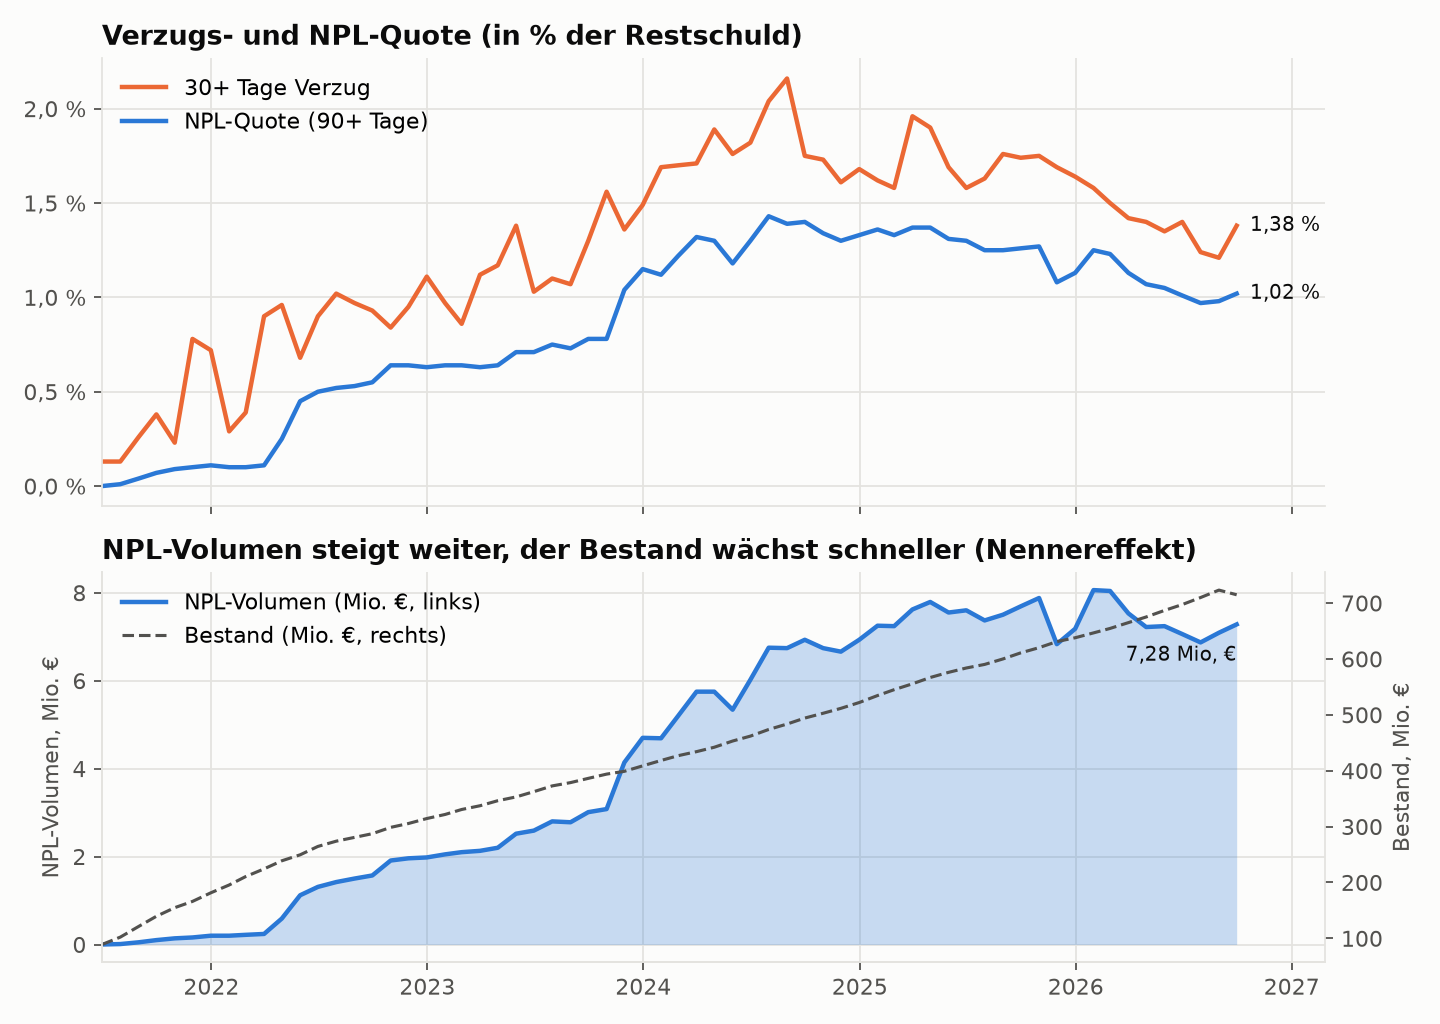
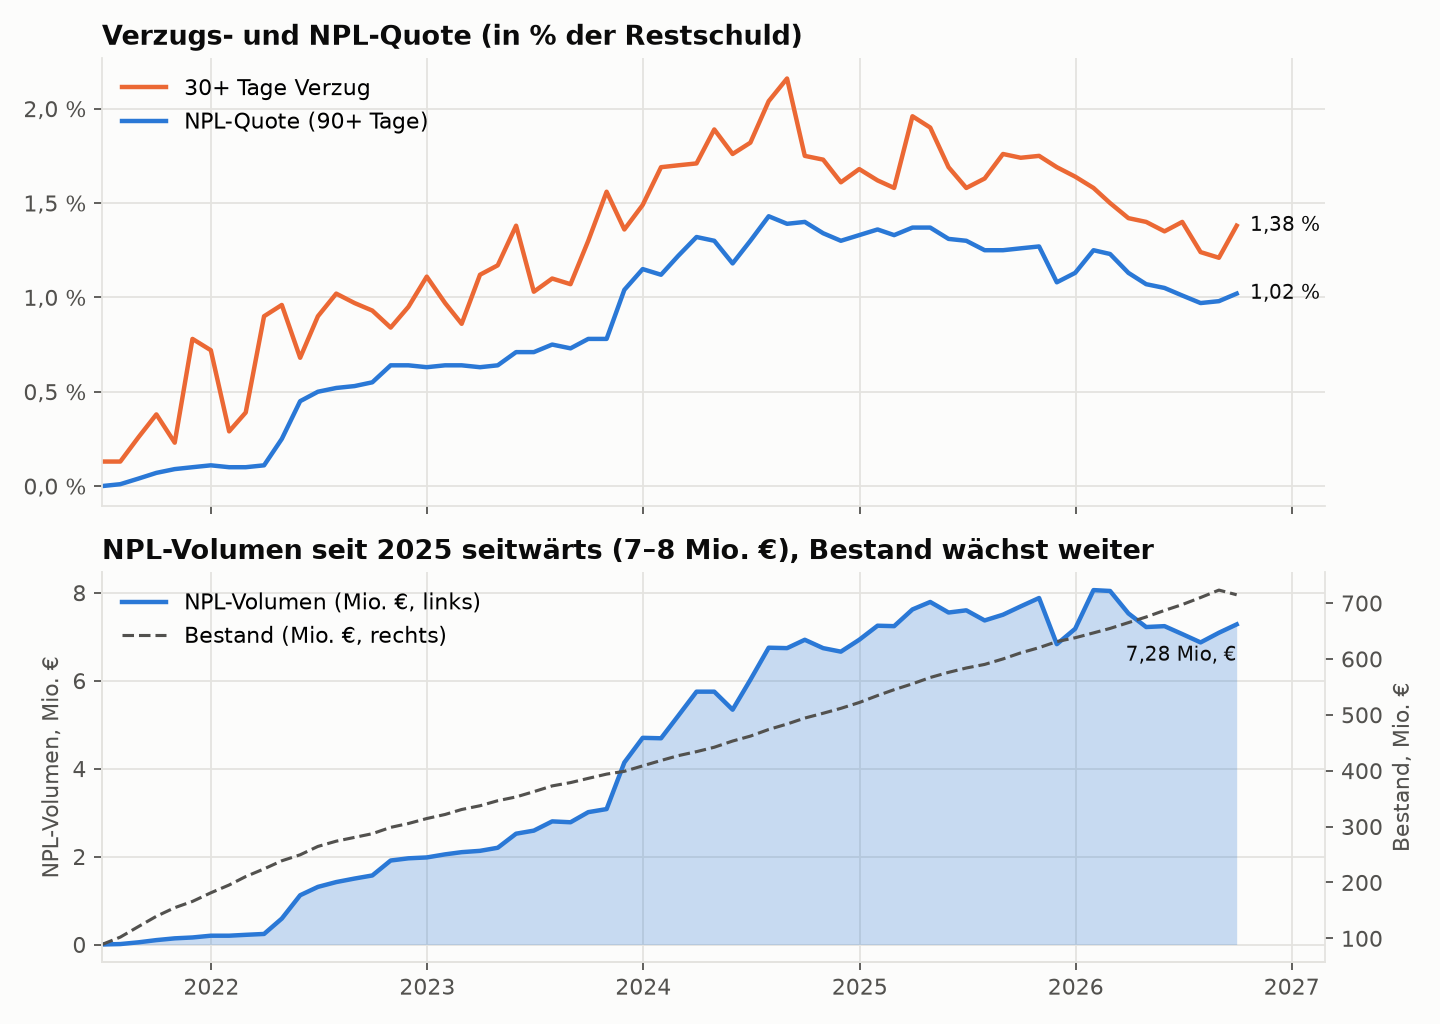
SQL und Grafik: keine Gesamt-PD über Stufen, NPL-Volumen seit 2025 seitwärts
- expected_loss_nach_stufe: PD in der Zeile Gesamt leer (Mittel über Stufe 3 mit PD = 100 % ist keine PD)
- Grafik 01 und Kommentar in sql/04: NPL-Volumen steigt nicht weiter, sondern läuft seit 2025 seitwärts

Changed region(s): [[0.2188, 0.5312, 0.8438, 0.5625]]

diff --git a/src/03_grafiken.py b/src/03_grafiken.py
@@ -73,7 +73,7 @@ def npl_verlauf() -> None:
     ax3.spines["right"].set_visible(True)
     linien = ax2.get_legend_handles_labels()[0] + ax3.get_legend_handles_labels()[0]
     ax2.legend(linien, [l.get_label() for l in linien], frameon=False, loc="upper left")
-    ax2.set_title("NPL-Volumen steigt weiter, der Bestand wächst schneller (Nennereffekt)")
+    ax2.set_title("NPL-Volumen seit 2025 seitwärts (7–8 Mio. €), Bestand wächst weiter")
     ax2.set_xlim(df["stichtag"].min(), df["stichtag"].max() + pd.Timedelta(days=150))
     speichern(fig, "01_npl_quote")
 

diff --git a/ergebnisse/ERGEBNISSE.md b/ergebnisse/ERGEBNISSE.md
@@ -256,7 +256,7 @@ Automatisch erzeugt von `src/02_sql_pipeline.py`. Alle Werte basieren auf synthe
 | 1       | vertragsgemäß (12-Monats-EL, Rating-PD)         |            12104 |        704.87 |                   0.66 |          31.2 |              1461 |
 | 2       | Rückstand 30/60 Tage (12-Monats-EL, Verzugs-PD) |               91 |          2.61 |                  32.58 |          34.8 |               296 |
 | 3       | Ausfall 90+ (Verlustschätzung, PD = 100 %)      |              215 |          7.28 |                 100    |          30.5 |              2220 |
-| Gesamt  | Bestand gesamt                                  |            12410 |        714.76 |                   1.79 |          31   |              3977 |
+| Gesamt  | Bestand gesamt                                  |            12410 |        714.76 |                 nan    |          31   |              3977 |
 
 ## 07_expected_loss · expected_loss_ueberleitung
 
